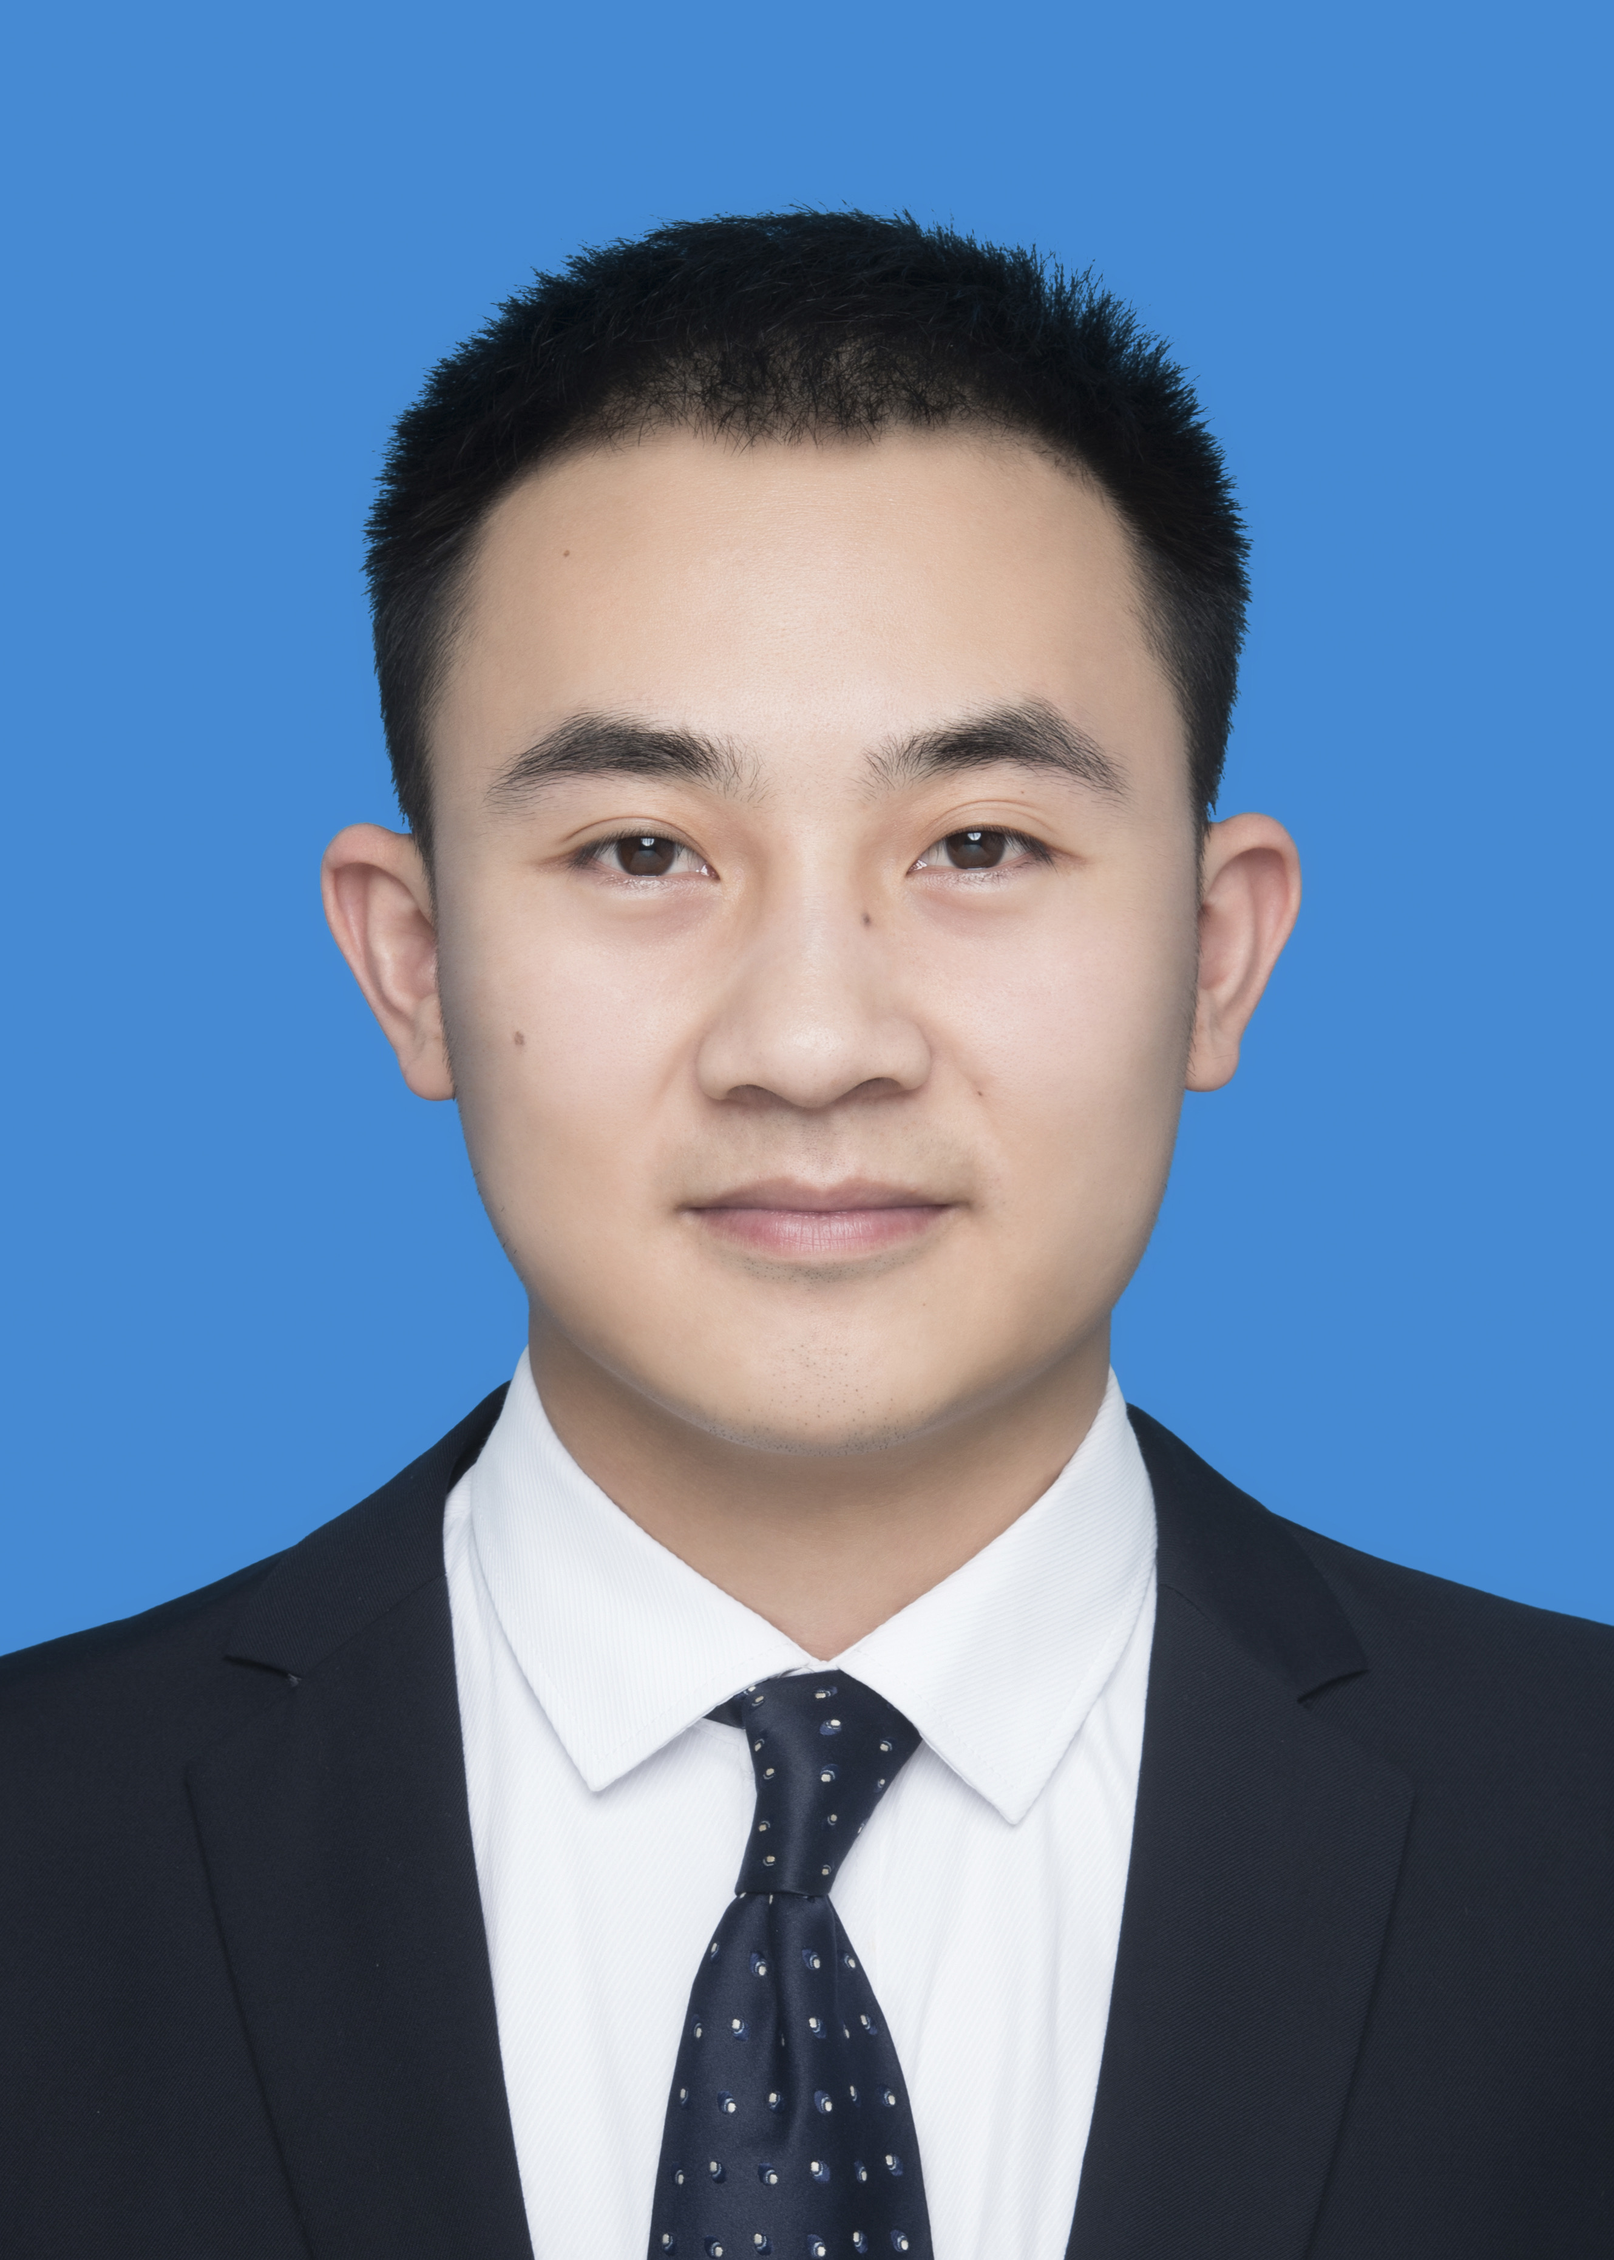
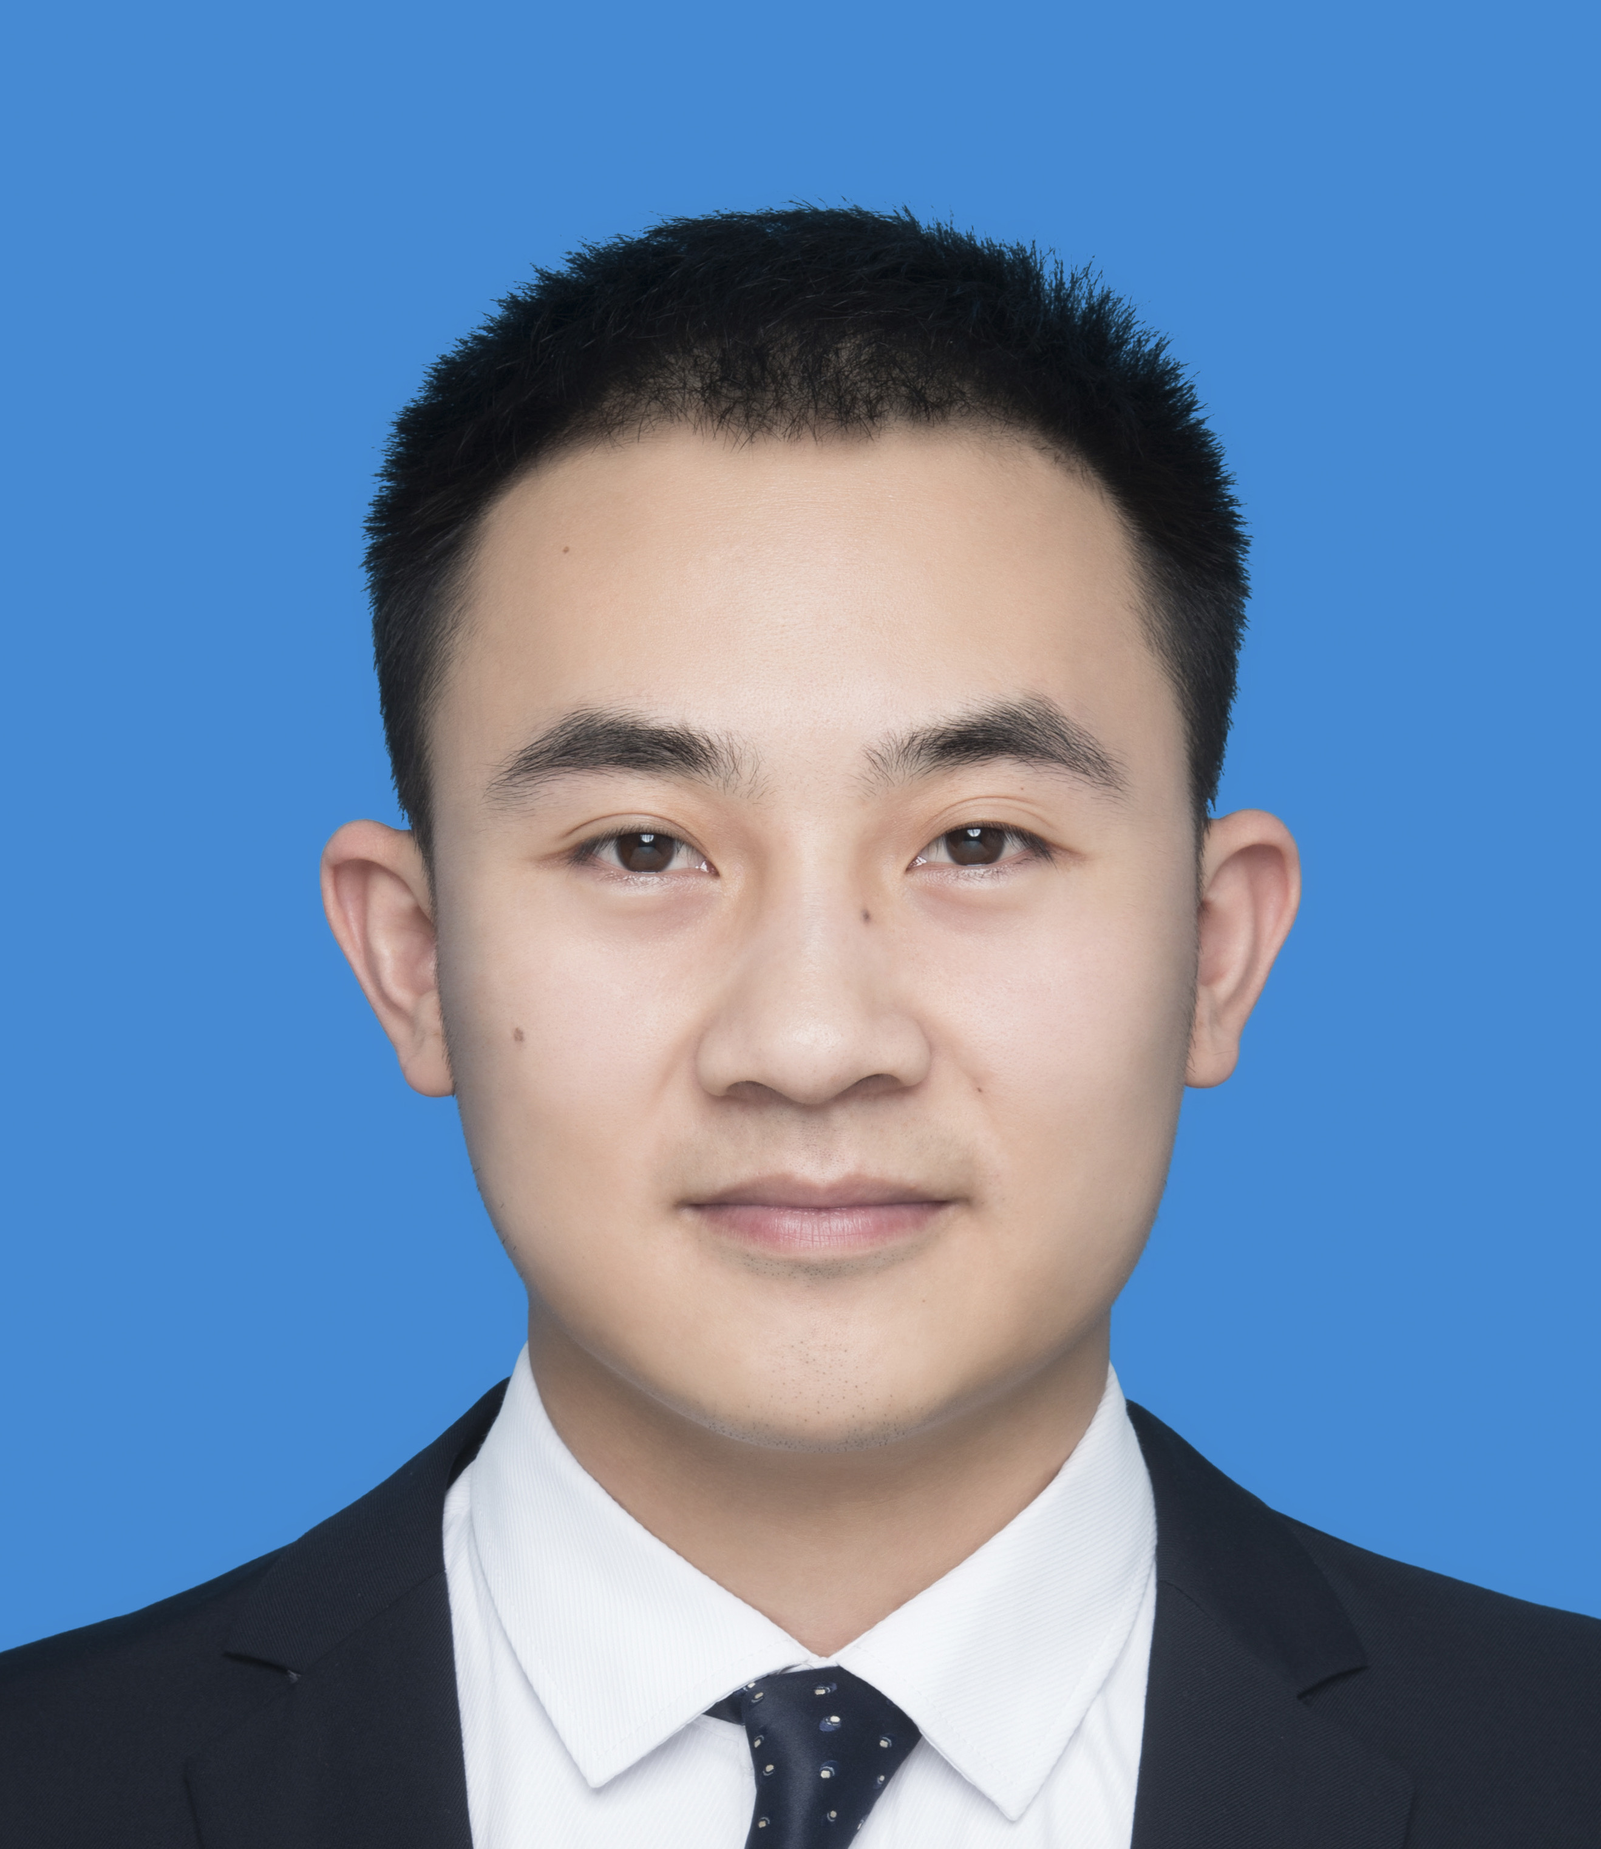
updated site

diff --git a/author/mo-songsong/index.html b/author/mo-songsong/index.html
@@ -308,8 +308,8 @@
   <meta property="og:site_name" content="ML for Data Management" />
   <meta property="og:url" content="https://MLxDB.github.io/author/mo-songsong/" />
   <meta property="og:title" content="Mo Songsong | ML for Data Management" />
-  <meta property="og:description" content="A highly-customizable Hugo research group theme powered by Wowchemy website builder." /><meta property="og:image" content="https://MLxDB.github.io/author/mo-songsong/avatar_hue7973c9892ab291bd5aff97d04fbd166_1212478_270x270_fill_q75_lanczos_center.jpeg" />
-    <meta property="twitter:image" content="https://MLxDB.github.io/author/mo-songsong/avatar_hue7973c9892ab291bd5aff97d04fbd166_1212478_270x270_fill_q75_lanczos_center.jpeg" /><meta property="og:locale" content="en-us" />
+  <meta property="og:description" content="A highly-customizable Hugo research group theme powered by Wowchemy website builder." /><meta property="og:image" content="https://MLxDB.github.io/author/mo-songsong/avatar_hu5480df4dde9b36145d4365c517f3545c_887454_270x270_fill_q75_lanczos_center.jpeg" />
+    <meta property="twitter:image" content="https://MLxDB.github.io/author/mo-songsong/avatar_hu5480df4dde9b36145d4365c517f3545c_887454_270x270_fill_q75_lanczos_center.jpeg" /><meta property="og:locale" content="en-us" />
   
     
   
@@ -696,7 +696,7 @@
       
       <img class="avatar avatar-circle"
            width="270" height="270"
-           src="/author/mo-songsong/avatar_hue7973c9892ab291bd5aff97d04fbd166_1212478_270x270_fill_q75_lanczos_center.jpeg" alt="Mo Songsong">
+           src="/author/mo-songsong/avatar_hu5480df4dde9b36145d4365c517f3545c_887454_270x270_fill_q75_lanczos_center.jpeg" alt="Mo Songsong">
       
 
       <div class="portrait-title">

diff --git a/author/zhao-yue/index.html b/author/zhao-yue/index.html
@@ -291,6 +291,7 @@
   
     
     
+    
   
   
 
@@ -307,8 +308,8 @@
   <meta property="og:site_name" content="ML for Data Management" />
   <meta property="og:url" content="https://MLxDB.github.io/author/zhao-yue/" />
   <meta property="og:title" content="ZHAO Yue | ML for Data Management" />
-  <meta property="og:description" content="A highly-customizable Hugo research group theme powered by Wowchemy website builder." /><meta property="og:image" content="https://MLxDB.github.io/media/icon_hu977496d800f0d840e643bbe9854d61d3_17236_512x512_fill_lanczos_center_3.png" />
-    <meta property="twitter:image" content="https://MLxDB.github.io/media/icon_hu977496d800f0d840e643bbe9854d61d3_17236_512x512_fill_lanczos_center_3.png" /><meta property="og:locale" content="en-us" />
+  <meta property="og:description" content="A highly-customizable Hugo research group theme powered by Wowchemy website builder." /><meta property="og:image" content="https://MLxDB.github.io/author/zhao-yue/avatar_hu148e8b3052e181beb50b1422972ef977_2049130_270x270_fill_q75_lanczos_center.jpeg" />
+    <meta property="twitter:image" content="https://MLxDB.github.io/author/zhao-yue/avatar_hu148e8b3052e181beb50b1422972ef977_2049130_270x270_fill_q75_lanczos_center.jpeg" /><meta property="og:locale" content="en-us" />
   
     
   
@@ -691,6 +692,11 @@
   <div class="col-12 col-lg-4">
     <div id="profile">
 
+      
+      
+      <img class="avatar avatar-circle"
+           width="270" height="270"
+           src="/author/zhao-yue/avatar_hu148e8b3052e181beb50b1422972ef977_2049130_270x270_fill_q75_lanczos_center.jpeg" alt="ZHAO Yue">
       
 
       <div class="portrait-title">

diff --git a/author/yin-ziqi/index.html b/author/yin-ziqi/index.html
@@ -291,6 +291,7 @@
   
     
     
+    
   
   
 
@@ -307,8 +308,8 @@
   <meta property="og:site_name" content="ML for Data Management" />
   <meta property="og:url" content="https://MLxDB.github.io/author/yin-ziqi/" />
   <meta property="og:title" content="Yin Ziqi | ML for Data Management" />
-  <meta property="og:description" content="A highly-customizable Hugo research group theme powered by Wowchemy website builder." /><meta property="og:image" content="https://MLxDB.github.io/media/icon_hu977496d800f0d840e643bbe9854d61d3_17236_512x512_fill_lanczos_center_3.png" />
-    <meta property="twitter:image" content="https://MLxDB.github.io/media/icon_hu977496d800f0d840e643bbe9854d61d3_17236_512x512_fill_lanczos_center_3.png" /><meta property="og:locale" content="en-us" />
+  <meta property="og:description" content="A highly-customizable Hugo research group theme powered by Wowchemy website builder." /><meta property="og:image" content="https://MLxDB.github.io/author/yin-ziqi/avatar_hu1ed6a6d65b7dd6c8f3bd3f688637aa5b_13789_270x270_fill_q75_lanczos_center.jpeg" />
+    <meta property="twitter:image" content="https://MLxDB.github.io/author/yin-ziqi/avatar_hu1ed6a6d65b7dd6c8f3bd3f688637aa5b_13789_270x270_fill_q75_lanczos_center.jpeg" /><meta property="og:locale" content="en-us" />
   
     
   
@@ -691,6 +692,11 @@
   <div class="col-12 col-lg-4">
     <div id="profile">
 
+      
+      
+      <img class="avatar avatar-circle"
+           width="270" height="270"
+           src="/author/yin-ziqi/avatar_hu1ed6a6d65b7dd6c8f3bd3f688637aa5b_13789_270x270_fill_q75_lanczos_center.jpeg" alt="Yin Ziqi">
       
 
       <div class="portrait-title">

diff --git a/people/index.html b/people/index.html
@@ -1172,7 +1172,7 @@
     
     
       
-      <a href="/author/mo-songsong/"><img width="270" height="270" loading="lazy" class="avatar avatar-circle" src="/author/mo-songsong/avatar_hue7973c9892ab291bd5aff97d04fbd166_1212478_270x270_fill_q75_lanczos_center.jpeg" alt="Avatar"></a>
+      <a href="/author/mo-songsong/"><img width="270" height="270" loading="lazy" class="avatar avatar-circle" src="/author/mo-songsong/avatar_hu5480df4dde9b36145d4365c517f3545c_887454_270x270_fill_q75_lanczos_center.jpeg" alt="Avatar"></a>
     
 
     <div class="portrait-title">
@@ -1446,6 +1446,12 @@
   <div class="col-12 col-sm-auto people-person">
     
     
+      
+      
+    
+    
+      
+      <a href="/author/yin-ziqi/"><img width="270" height="270" loading="lazy" class="avatar avatar-circle" src="/author/yin-ziqi/avatar_hu1ed6a6d65b7dd6c8f3bd3f688637aa5b_13789_270x270_fill_q75_lanczos_center.jpeg" alt="Avatar"></a>
     
 
     <div class="portrait-title">
@@ -1533,6 +1539,12 @@
   <div class="col-12 col-sm-auto people-person">
     
     
+      
+      
+    
+    
+      
+      <a href="/author/zhao-yue/"><img width="270" height="270" loading="lazy" class="avatar avatar-circle" src="/author/zhao-yue/avatar_hu148e8b3052e181beb50b1422972ef977_2049130_270x270_fill_q75_lanczos_center.jpeg" alt="Avatar"></a>
     
 
     <div class="portrait-title">
